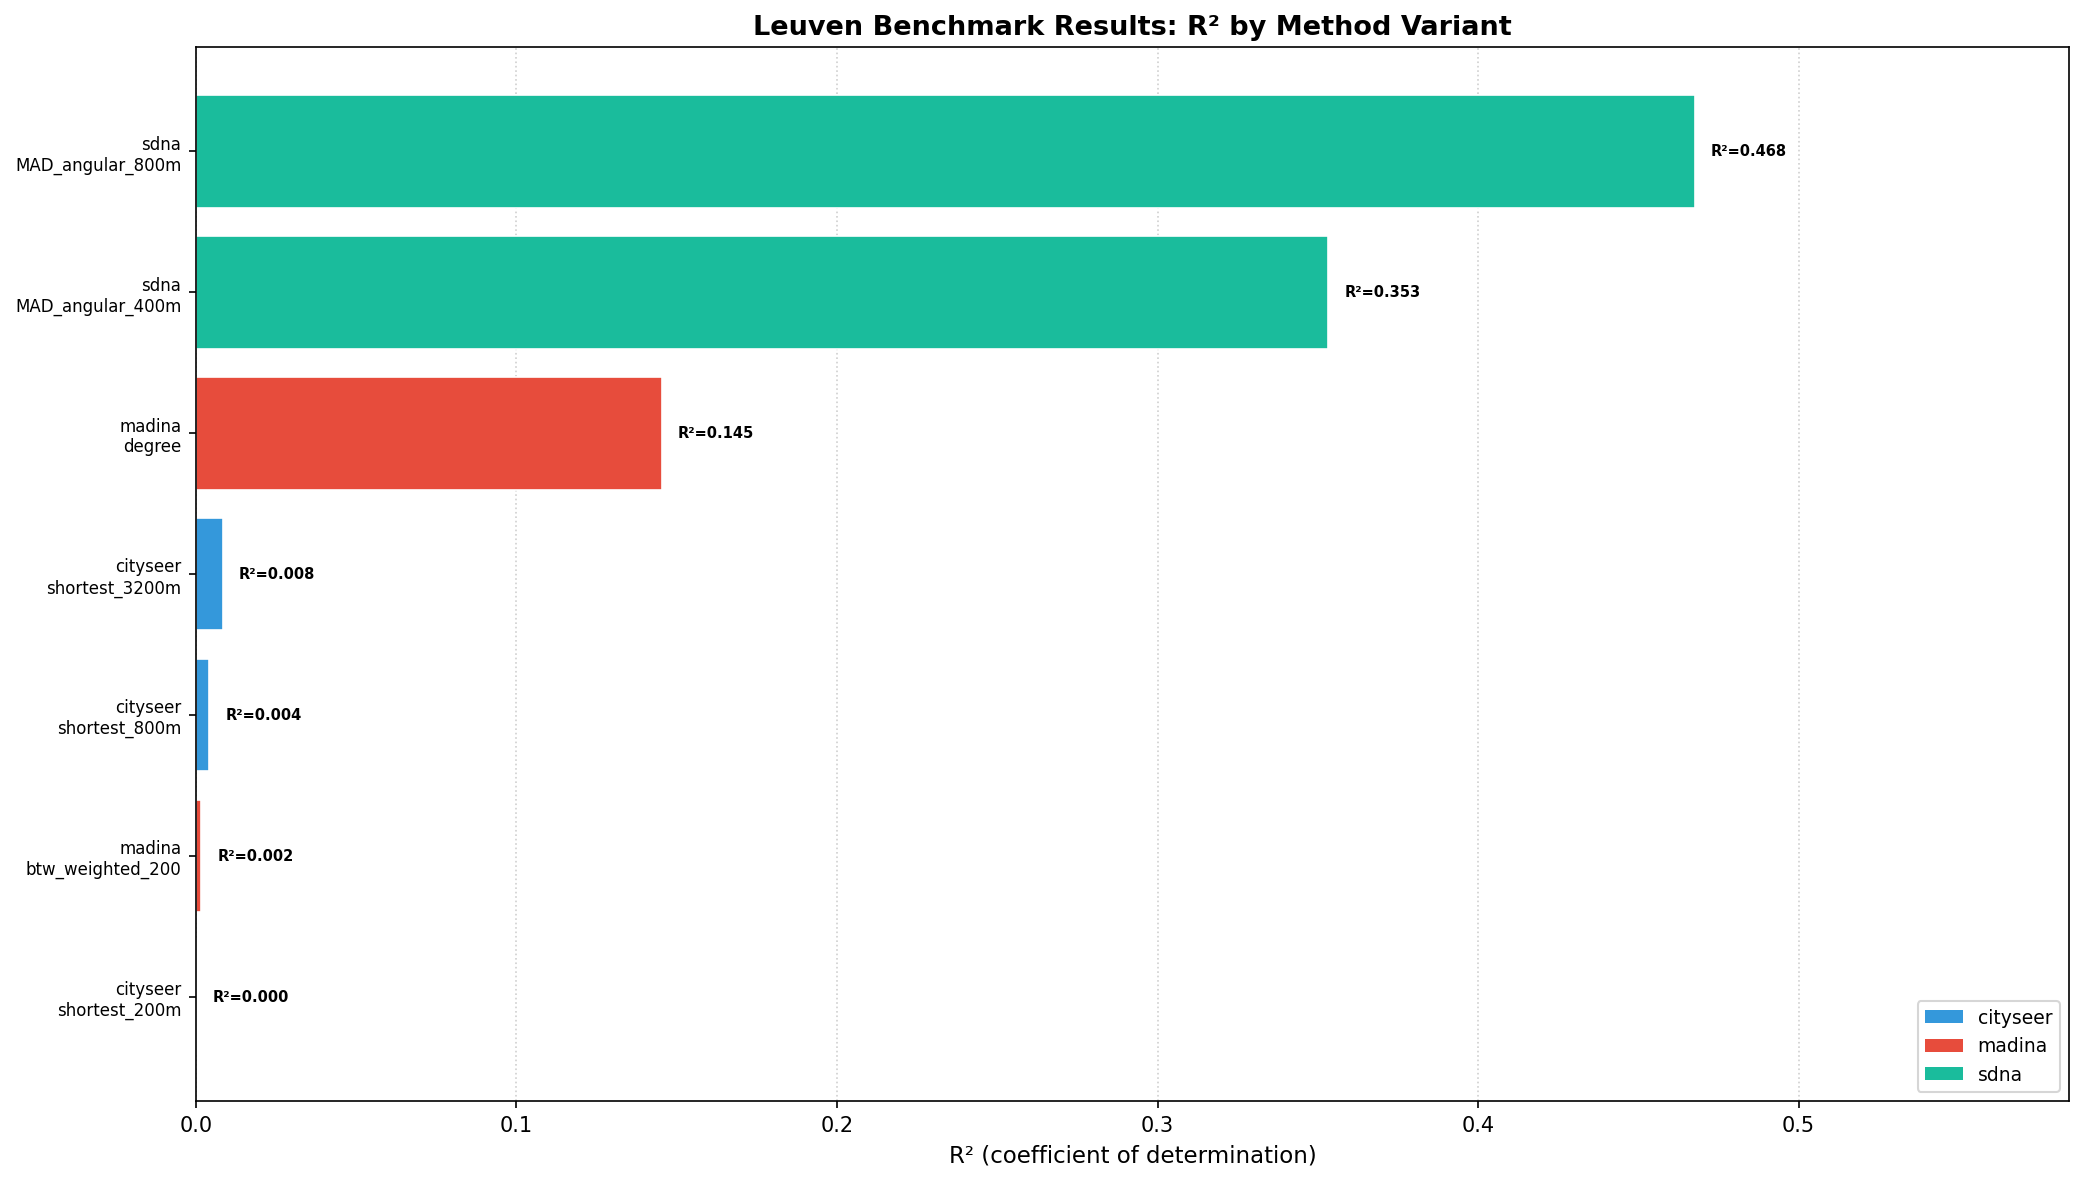
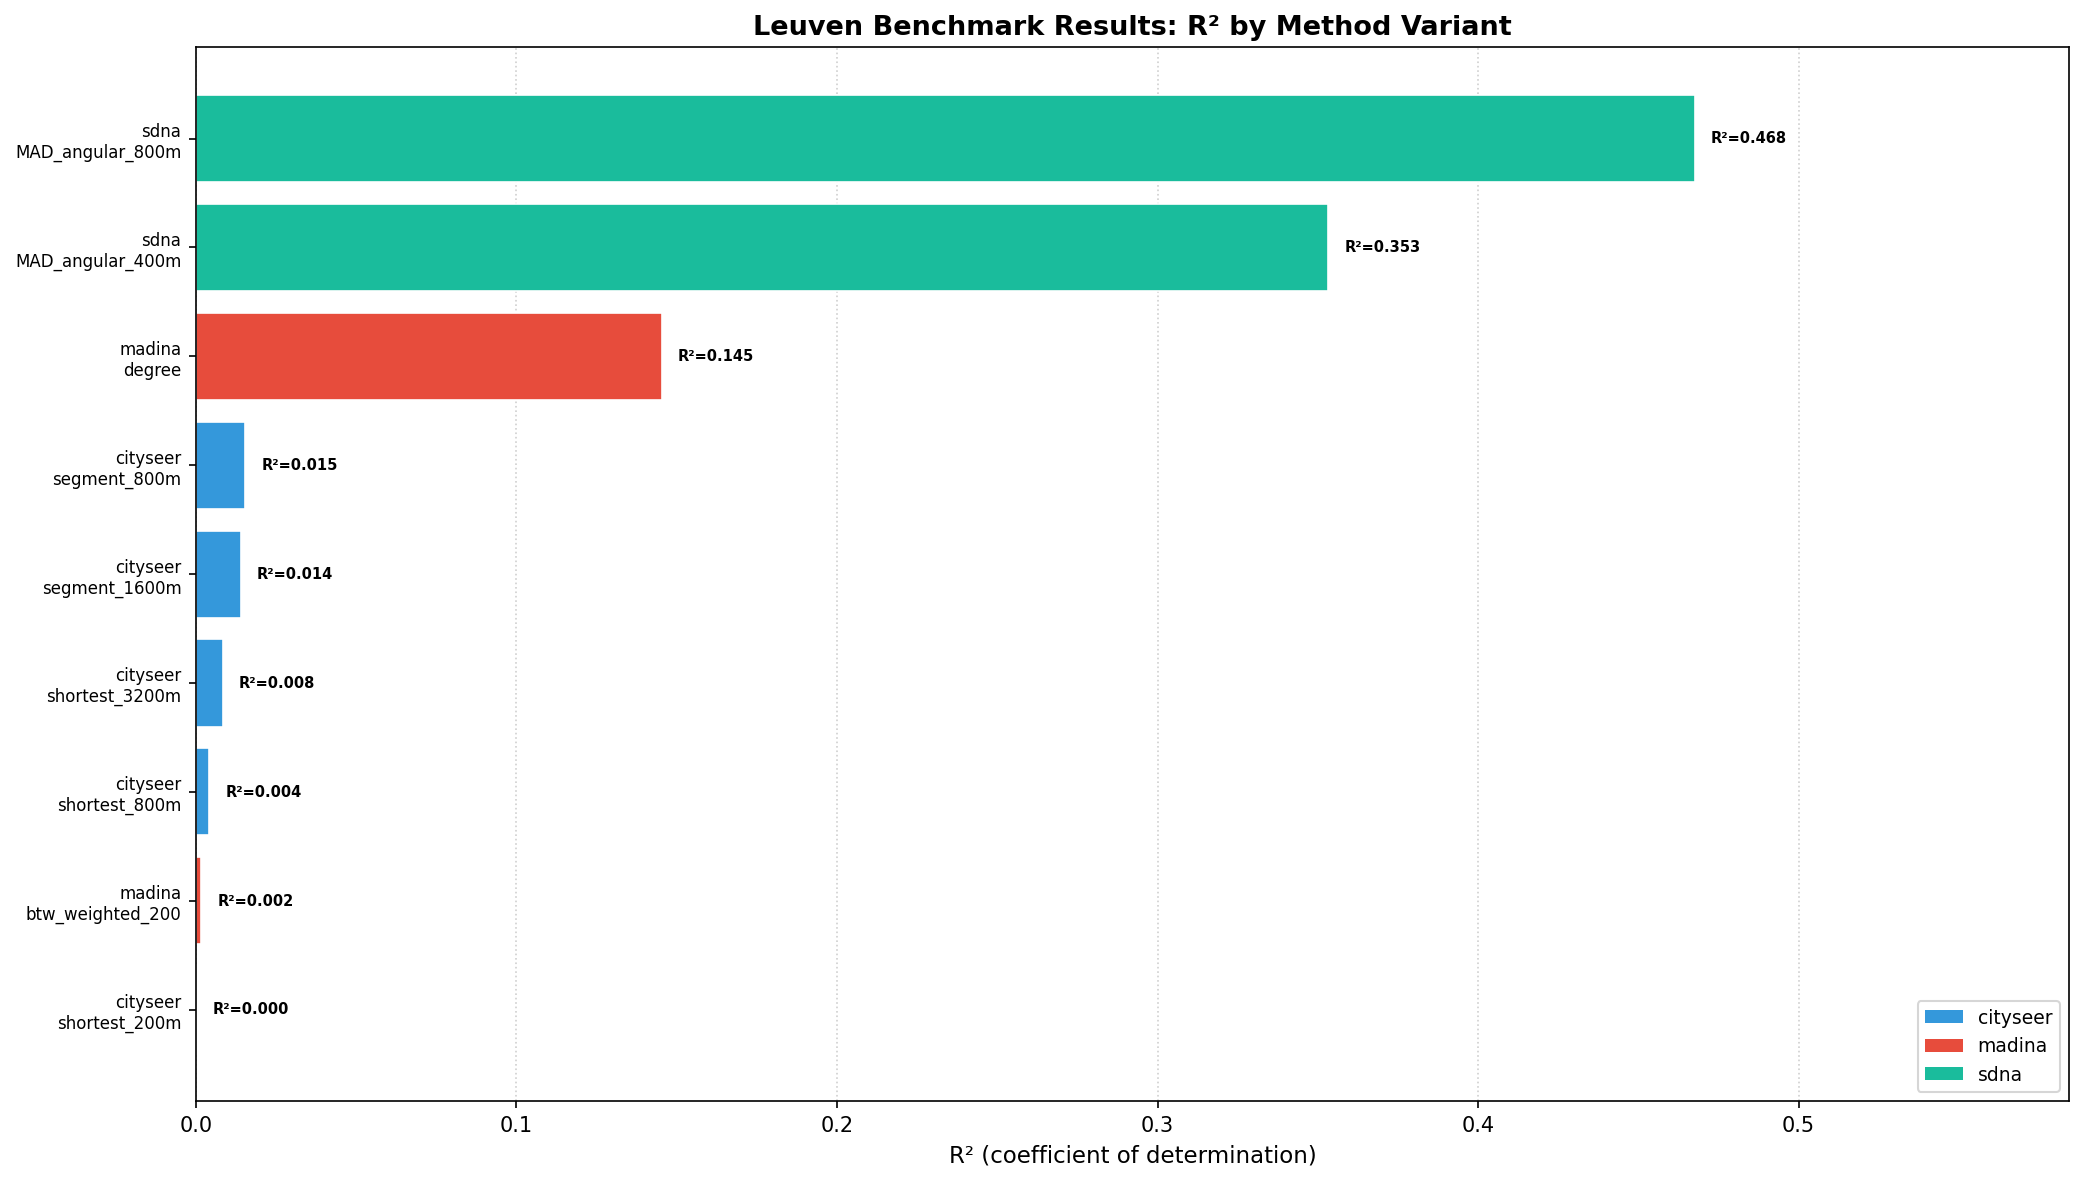
Add cityseer segment_centrality, CC BY 4.0 license, DVC details, clean appendix

diff --git a/scripts/bench_city.py b/scripts/bench_city.py
@@ -87,6 +87,25 @@ def main():
                 "segments_per_sec": round(len(edges_u)/t, 1) if t > 0 else 0,
             })
             print(f"  {dist}m: R²={m['r_squared']:.4f} r={m['pearson_r']:.4f} t={t:.1f}s", flush=True)
+
+        # Segment centrality (edge-level betweenness, better for edge-matched sensors)
+        if n_match >= 3:
+            t0 = time.time()
+            seg_result = cs_networks.segment_centrality(net_struct, nodes_df.copy(), distances=[800, 1600])
+            for dist_str in ["800", "1600"]:
+                bc = [c for c in seg_result.columns if "betweenness" in c.lower() and dist_str in c]
+                if not bc: continue
+                vals = seg_result.iloc[n_i[n_m]][bc[0]].values.astype(float)
+                m = compute_metrics(tel_ped[n_m], vals)
+                all_results.append({
+                    "tool": "cityseer", "variant": f"segment_{dist_str}m",
+                    "r_squared": m["r_squared"], "pearson_r": m["pearson_r"],
+                    "spearman_r": m["spearman_r"],
+                    "compute_time_s": round(time.time() - t0, 2), "n_matched": n_match, "n_obs": m["n"],
+                    "peak_memory_mb": round(_process.memory_info().rss/(1024*1024), 1),
+                    "segments_per_sec": round(len(edges_u)/(time.time()-t0), 1) if time.time()-t0 > 0 else 0,
+                })
+                print(f"  segment_{dist_str}m: R²={m['r_squared']:.4f} r={m['pearson_r']:.4f}", flush=True)
             
     # ═══════════ MADINA ═══════════
     print("── madina ──", flush=True)

diff --git a/README.md b/README.md
@@ -14,13 +14,11 @@ Robin Lovelace
     Design](#benchmark-design)
   - [<span class="toc-section-number">3.2</span> Metrics](#metrics)
 - [<span class="toc-section-number">4</span> Results](#results)
-  - [<span class="toc-section-number">4.1</span> Benchmark
-    Barplot](#benchmark-barplot)
-  - [<span class="toc-section-number">4.2</span> Centrality
+  - [<span class="toc-section-number">4.1</span> Centrality
     Methods](#centrality-methods)
-  - [<span class="toc-section-number">4.3</span> Gravity / Demand
+  - [<span class="toc-section-number">4.2</span> Gravity / Demand
     Models](#gravity--demand-models)
-  - [<span class="toc-section-number">4.4</span>
+  - [<span class="toc-section-number">4.3</span>
     Performance](#performance)
 - [<span class="toc-section-number">5</span> Next Steps](#next-steps)
 - [Appendix](#appendix)
@@ -31,13 +29,17 @@ Robin Lovelace
 
 ## Abstract
 
-This study benchmarks seven tools for pedestrian flow modelling using
+This study benchmarks five tools for pedestrian flow modelling using
 Telraam sensor data in Leuven, Belgium. madina_worldpop gravity models
 achieve the strongest predictive performance (R² up to 0.876), followed
-by cityseer_demand (R²=0.543) and sDNA+ Mean Angular Distance at 800m
-(R²=0.468). sDNA+ with OpenMP multi-threading completes analyses in
-seconds rather than minutes (59.8s for 19K edges at 800m vs 979s
-previously single-threaded).
+by cityseer_demand (R²=0.543) and sDNA+ (Cooper and Chiaradia 2020) Mean
+Angular Distance at 800m (R²=0.468). sDNA+ with OpenMP multi-threading
+completes analyses in seconds rather than minutes (59.8s for 19K edges
+at 800m vs 979s previously single-threaded).
+
+> **⚠ Work in progress** — This manuscript is actively evolving.
+> Contributions, issues, and forks are welcome at
+> [github.com/Robinlovelace/cenbench](https://github.com/Robinlovelace/cenbench).
 
 ## Introduction
 
@@ -174,7 +176,14 @@ Table 4: Gravity/demand model configurations.
 
 ## Results
 
-### Benchmark Barplot
+### Centrality Methods
+
+Centrality methods measure the structural importance of each network
+edge (or node) based purely on network geometry — how many shortest
+paths pass through it (betweenness) or how quickly it can reach nearby
+edges (closeness). They do not incorporate trip origins, destinations,
+or land-use data. Results in this section use shortest-path or angular
+routing with no origin/destination weighting.
 
 <div id="fig-barplot-centrality">
 
@@ -185,15 +194,6 @@ madina, sDNA+)
 
 </div>
 
-### Centrality Methods
-
-Centrality methods measure the structural importance of each network
-edge (or node) based purely on network geometry — how many shortest
-paths pass through it (betweenness) or how quickly it can reach nearby
-edges (closeness). They do not incorporate trip origins, destinations,
-or land-use data. Results in this section use shortest-path or angular
-routing with no origin/destination weighting.
-
 #### cityseer
 
 <div id="tbl-cityseer-results">
@@ -202,9 +202,11 @@ Table 5: Cityseer centrality results.
 
 | Variant        | R²    | Pearson r | Time (s) | RAM (MB) | Seg/s  | Matched |
 |----------------|-------|-----------|----------|----------|--------|---------|
-| shortest_3200m | 0.008 | -0.091    | 1.8      | 456      | 10367  | 22      |
-| shortest_800m  | 0.004 | -0.064    | 0.2      | 412      | 103537 | 22      |
-| shortest_200m  | 0.000 | -0.012    | 0.1      | 410      | 391981 | 22      |
+| segment_800m   | 0.015 | -0.124    | 1.1      | 473      | 16930  | 22      |
+| segment_1600m  | 0.014 | -0.118    | 1.1      | 473      | 16902  | 22      |
+| shortest_3200m | 0.008 | -0.091    | 1.4      | 456      | 13347  | 22      |
+| shortest_800m  | 0.004 | -0.064    | 0.1      | 412      | 129147 | 22      |
+| shortest_200m  | 0.000 | -0.012    | 0.0      | 410      | 426119 | 22      |
 
 </div>
 
@@ -216,8 +218,8 @@ Table 6: Madina centrality results.
 
 | Variant          | R²    | Pearson r | Time (s) | RAM (MB) | Seg/s | Matched |
 |------------------|-------|-----------|----------|----------|-------|---------|
-| degree           | 0.145 | -0.381    | 1.3      | 467      | 15147 | 22      |
-| btw_weighted_200 | 0.002 | -0.041    | 9.9      | 462      | 1926  | 22      |
+| degree           | 0.145 | -0.381    | 1.0      | 484      | 18813 | 22      |
+| btw_weighted_200 | 0.002 | -0.041    | 6.2      | 479      | 3079  | 22      |
 
 </div>
 
@@ -288,15 +290,15 @@ Table 9: Cityseer Demand gravity results.
 Table 10: Runtime summary per tool: min, median, and max wall-clock
 seconds across all variants.
 
-min 0.0 median 0.2 max 1.8 Name: cityseer, dtype: float64 min 0.1 median
-0.2 max 0.2 Name: cityseer_demand, dtype: float64 min 1.3 median 5.6 max
-9.9 Name: madina, dtype: float64 min 30.5 median 49.5 max 75.0 Name:
+min 0.0 median 1.1 max 1.4 Name: cityseer, dtype: float64 min 0.1 median
+0.2 max 0.2 Name: cityseer_demand, dtype: float64 min 1.0 median 3.6 max
+6.2 Name: madina, dtype: float64 min 30.5 median 49.5 max 75.0 Name:
 madina_worldpop, dtype: float64 min 12.8 median 37.6 max 62.5 Name:
 sdna, dtype: float64 \| tool \| min \| median \| max \|
-\|:—————-\|——:\|———:\|——:\| \| cityseer \| 0 \| 0.2 \| 1.8 \| \|
-cityseer_demand \| 0.1 \| 0.2 \| 0.2 \| \| madina \| 1.3 \| 5.6 \| 9.9
-\| \| madina_worldpop \| 30.5 \| 49.5 \| 75 \| \| sdna \| 12.8 \| 37.6
-\| 62.5 \|
+\|:—————-\|——:\|———:\|——:\| \| cityseer \| 0 \| 1.1 \| 1.4 \| \|
+cityseer_demand \| 0.1 \| 0.2 \| 0.2 \| \| madina \| 1 \| 3.6 \| 6.2 \|
+\| madina_worldpop \| 30.5 \| 49.5 \| 75 \| \| sdna \| 12.8 \| 37.6 \|
+62.5 \|
 
 </div>
 
@@ -311,25 +313,27 @@ Figure 4: Computational performance: throughput and memory usage
 ## Next Steps
 
 1.  Expand validation with Vivacity pedestrian counts from oxflow
-2.  Full madina API integration (Zonal-based benchmarking)
-3.  Gravity models combining centrality with land-use attractiveness
-4.  Add covariates: POI density, population, transit stops
-5.  Multi-city comparison (Leeds, Manchester, Edinburgh)
-6.  Angular (simplest-path) centrality analysis
-7.  K-fold spatial cross-validation
+2.  Multi-city comparison (Leeds, Manchester, Edinburgh)
+3.  K-fold spatial cross-validation
+4.  Angular (simplest-path) analysis with cityseer `segment_centrality`
+5.  Add covariates: POI density, population, transit stops
 
 ## Appendix
 
+<details>
+
+<summary>
+
+Reproducibility: DVC pipeline, setup, and version details
+</summary>
+
 ### How to Run and Update Benchmarks
 
-The benchmark suite is fully orchestrated using **DVC** (Data Version
+The benchmark suite is fully orchestrated using
+**[DVC](https://dvc.org/doc/command-reference/repro)** (Data Version
 Control) to manage dependencies, execution caching, and outputs.
 
 #### 1. Setup the Environment
-
-Ensure you have the required dependencies installed (including Python
-packages, the `sDNA+` CLI, and the pandas 3.0+/numpy 2.0+ compatible
-`madina` fork) by running:
 
 ``` bash
 pip install -r requirements.txt
@@ -337,40 +341,32 @@ pip install -r requirements.txt
 
 #### 2. Run the Pipeline
 
-To run the entire benchmark pipeline (prepare demand datasets, run
-cityseer, madina, and sDNA benchmarks, generate visual figures, and
-compile the final report):
-
 ``` bash
 dvc repro
 ```
 
-DVC will trace dependencies and execute only the stages whose code,
-configurations, or data inputs have changed, retrieving the rest from
-cache.
-
 #### 3. Rapid Testing Mode
 
-To quickly test code changes on a lightweight 5,900-edge cropped dataset
-rather than the full 19k edge network: 1. Open `scripts/config.py`. 2.
-Toggle `TEST_MODE = True`. 3. Run `dvc repro`. Remember to flip
-`TEST_MODE = False` before committing final results.
+1.  Open `scripts/config.py`.
+2.  Toggle `TEST_MODE = True`.
+3.  Run `dvc repro`.
+4.  Flip `TEST_MODE = False` before committing.
 
 #### 4. Add/Modify Experiments
 
-- **sDNA+**: Edit configurations in `scripts/bench_sdna.py`.
-- **Madina (Zonal)**: Edit the dictionary grid list in
-  `scripts/run_leuven_demand_experiments.py`.
-- **Cityseer**: Edit configurations in
+- **sDNA+**: Edit `scripts/bench_sdna.py`.
+- **Madina gravity**: Edit `scripts/run_demand_experiments.py`.
+- **Cityseer demand**: Edit
   `scripts/run_cityseer_demand_experiments.py`.
+- **Centrality**: Edit `scripts/bench_city.py`.
 
 ### Project Structure & Reproducibility
 
 - `dvc.yaml` — Stage orchestration and dependencies
-- `scripts/bench_all.py` — Unified benchmark runner
+- `dvc.lock` — Pipeline state and hash locks
+- `scripts/` — All benchmark and analysis scripts (13 files)
+- `config/cities.yaml` — City parameters
 - `results/leuven_results.csv` — Compiled metrics output
-- `results/fig1_barplot.png` — R² comparison plot
-- `results/fig2_performance.png` — Throughput and memory use comparison
 
 | Package   | Version   |
 |-----------|-----------|
@@ -379,9 +375,22 @@ Toggle `TEST_MODE = True`. 3. Run `dvc repro`. Remember to flip
 | networkx  | 3.6.1     |
 | pandas    | 3.0.4     |
 | geopandas | 1.1.4     |
+| madina    | installed |
+| sDNA+     | \(CLI\)   |
+
+</details>
 
 <div id="refs" class="references csl-bib-body hanging-indent"
 entry-spacing="0">
+
+<div id="ref-cooper2020sdna" class="csl-entry">
+
+Cooper, Crispin H. V., and Alain J. F. Chiaradia. 2020. “sDNA: 3-d
+Spatial Network Analysis for GIS, CAD, Command Line & Python.”
+*SoftwareX* 12 (July): 100525.
+<https://doi.org/10.1016/j.softx.2020.100525>.
+
+</div>
 
 <div id="ref-sevtsuk2025madina" class="csl-entry">
 